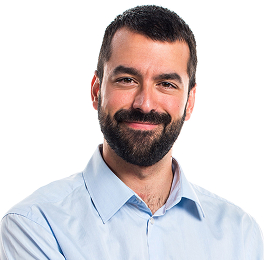
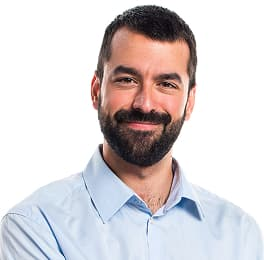
squooshed images and reworked after validator

diff --git a/index.html b/index.html
@@ -1,8 +1,9 @@
 <!DOCTYPE html>
 <html lang="en">
 <head>
+    <meta http-equiv="x-ua-compatible" content="ie=edge">
     <meta charset="UTF-8">
-    <title></title>
+    <title>WEBSTUDIO MAIN PAGE</title>
 </head>
 <body>
     <header>
@@ -25,6 +26,7 @@
         <h1>Effective Solutions for Your Business</h1>
         <button type="button">Order Service</button>
         <section>
+            <h2></h2>
             <ul>
                 <li>
                     <h3>Strategy</h3>
@@ -45,11 +47,36 @@
             </ul>
         </section>
         <section>
-
+            <h2>Our Team</h2>
+            <ul>
+                <li>
+                    <img src="images/team-member-1.jpg" width="264" height="260" alt="Team Member 1" >
+                    <h3>Mark Guerrero</h3>
+                    <p>Product Designer</p>
+                </li>
+                <li>
+                    <img src="images/team-member-2.jpg" width="264" height="260" alt="Team Member 2" >
+                    <h3>Tom Ford</h3>
+                    <p>Frontend Developer</p>
+                </li>
+                <li>
+                    <img src="images/team-member-3.jpg" width="264" height="260" alt="Team Member 3" >
+                    <h3>Camila Garcia</h3>
+                    <p>Marketing</p>
+                </li>
+                <li>
+                    <img src="images/team-member-4.jpg" width="264" height="260" alt="Team Member 4" >
+                    <h3>Daniel Wilson</h3>
+                    <p>UI Designer</p>
+                </li>
+            </ul>
         </section>
     </main>
     <footer>
-
+        <a href="index.html">WEBSTUDIO</a>
+        <p>Increase the flow of customers and sales for your business with digital marketing &amp; growth solutions.</p>
     </footer>
 </body>
 </html>
+
+<!--hw-01 created by liagic(Leonid)-->
